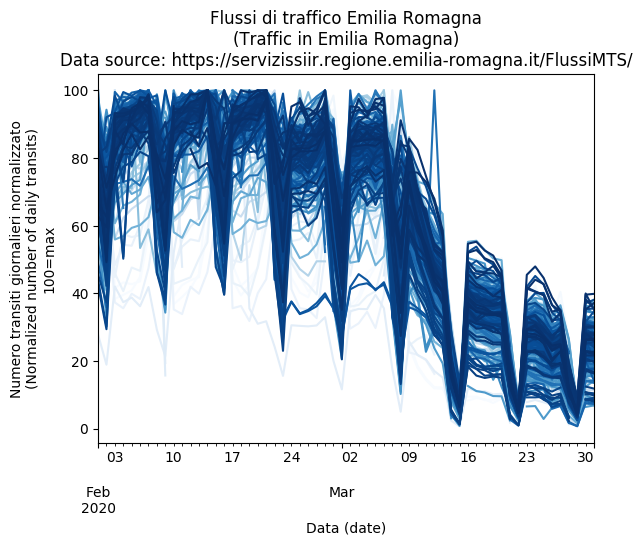
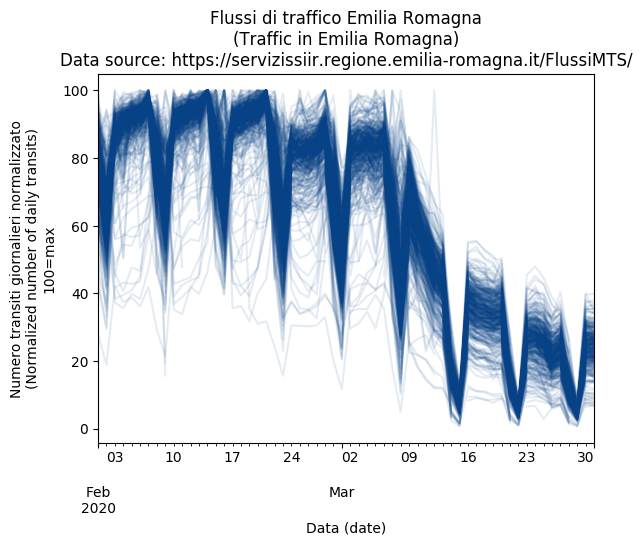
Simplifying density plot

Changed region(s): [[0.1558, 0.156, 0.9346, 0.7798]]

diff --git a/COVID-19/traffic_analysis.py b/COVID-19/traffic_analysis.py
@@ -6,64 +6,6 @@ import matplotlib.pyplot as plt
 import datetime as dt
 import numpy as np
 
-# https://scipy-cookbook.readthedocs.io/items/EyeDiagram.html
-def bres_segment_count_slow(x0, y0, x1, y1, grid):
-    """Bresenham's algorithm.
-
-    The value of grid[x,y] is incremented for each x,y
-    in the line from (x0,y0) up to but not including (x1, y1).
-    """
-
-    if np.any(np.isnan([x0,y0,x1,y1])):
-        return    
-
-    nrows, ncols = grid.shape
-
-    dx = abs(x1 - x0)
-    dy = abs(y1 - y0)
-
-    sx = 0
-    if x0 < x1:
-        sx = 1
-    else:
-        sx = -1
-    sy = 0
-    if y0 < y1:
-        sy = 1
-    else:
-        sy = -1
-
-    err = dx - dy
-
-    while True:
-        # Note: this test is moved before setting
-        # the value, so we don't set the last point.
-        if x0 == x1 and y0 == y1:
-            break
-
-        if 0 <= x0 < nrows and 0 <= y0 < ncols:
-            grid[int(x0), int(y0)] += 1
-
-        e2 = 2 * err
-        if e2 > -dy:
-            err -= dy
-            x0 += sx
-        if e2 < dx:
-            err += dx
-            y0 += sy
-
-def bres_curve_count_slow(y, x, grid):
-    for k in range(x.size - 1):
-        x0 = x[k]
-        y0 = y[k]
-        x1 = x[k+1]
-        y1 = y[k+1]
-        bres_segment_count_slow(x0, y0, x1, y1, grid)
-
-def linear_scale(x,src_min,src_max,dst_min,dst_max):
-    return dst_min+(x-src_min)*(dst_max-dst_min)/(src_max-src_min)
-
-
 lanes = []
 stations = []
 
@@ -91,54 +33,11 @@ df1 = df[df['Giorno']>='2020-02-01']
 df1 = df1.pivot_table(index='Giorno', columns=['Postazione','Corsia'],values='Transiti - Totale')
 df1 = 100*df1/df1.max()
 fig, ax = plt.subplots(1)
-df1.plot(legend=False,colormap='Blues',ax=ax)
+df1.plot(legend=False,ax=ax,color='#084286', alpha=.1)
 ax.set_title('Flussi di traffico Emilia Romagna\n(Traffic in Emilia Romagna)\nData source: https://servizissiir.regione.emilia-romagna.it/FlussiMTS/')
 ax.set_ylabel('Numero transiti giornalieri normalizzato\n(Normalized number of daily transits)\n100=max')
 ax.set_xlabel('Data (date)')
 ax.figure.savefig('Emilia_Romagna_all_stations.png',bbox_inches='tight')
-
-ys = []
-L = []
-for x in df1:
-    L.append(len(df1[x]))
-    ys.append(df1[x].values)
-
-
-
-if all(x==L[0] for x in L):
-    tmin = 0
-    tmax = L[0]-1
-    ymin = np.nanmin(ys)
-    ymax = np.nanmax(ys)    
-    t = np.linspace(0,L[0]-1,L[0])
-    ys_d = []
-    grid_W = 800
-    grid_H = 600
-    grid = np.zeros((grid_H, grid_W), dtype=np.int32)
-    td = np.round(linear_scale(t,tmin,tmax,0,grid_W))
-    for y in ys:
-        ys_d.append(np.round(linear_scale(y,ymin,ymax,0,grid_H)))
-    for y in ys_d:
-        bres_curve_count_slow(td, y, grid)
-    plt.figure()
-    # Convert to float32 so we can use nan instead of 0.
-    grid = grid.astype(np.float32)
-    grid[grid==0] = np.nan
-    plt.grid(color='w')
-    #plt.imshow(grid.T[::-1,:], extent=[0,1,0,1], cmap=plt.cm.coolwarm, interpolation='gaussian')
-    plt.imshow(grid,origin='lower',cmap=plt.cm.Blues_r)
-    plt.grid(None)
-    ax = plt.gca()
-    ax.set_facecolor('k')
-    # ax.set_xticks(linear_scale([0,1,2,3,4],tmin,tmax,0,grid_W))
-    # ax.set_yticks(linear_scale([0,1,2,3,4,5,6,7,8],ymin,ymax,0,grid_H))
-    # ax.set_xticklabels([0,1,2,3,4])
-    # ax.set_yticklabels([0,1,2,3,4,5,6,7,8])
-    plt.colorbar()
-    fig = plt.gcf()        
-    plt.savefig("persistence-diagram.png", bbox_inches='tight')
-
-
 
 #c1 = (df['Postazione']==251) | (df['Postazione']==255) | (df['Postazione']==505) | (df['Postazione']==651)
 #c1 = (df['Postazione']==156) | (df['Postazione']==252) | (df['Postazione']==600) | (df['Postazione']==52)
